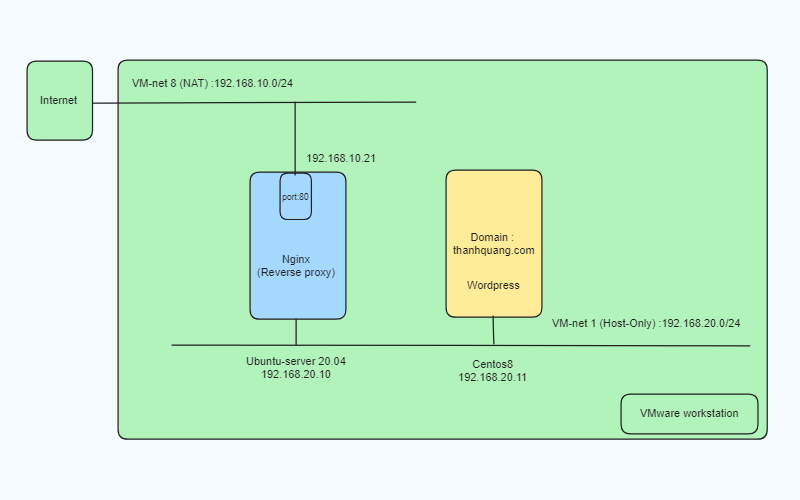
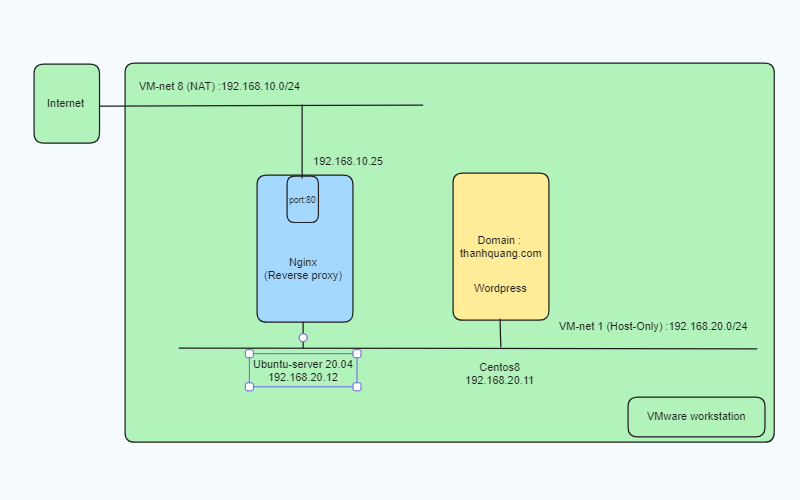
update

Changed region(s): [[0.0312, 0.12, 0.9688, 0.9]]

diff --git a/thuctap/03-Linux/03-thuchanh/03.proxy-ubuntu.md b/thuctap/03-Linux/03-thuchanh/03.proxy-ubuntu.md
@@ -1,5 +1,10 @@
+- [Hướng dẫn cấu hình reverse proxy trên ubuntu server 20.04](#hướng-dẫn-cấu-hình-reverse-proxy-trên-ubuntu-server-2004)
+  - [1. Chuẩn bị](#1-chuẩn-bị)
+  - [2. Thực hành](#2-thực-hành)
+    - [2.1 Cấu hình trên ubuntu server 20.04](#21-cấu-hình-trên-ubuntu-server-2004)
+    - [2.2 Cấu hình trên centos 8 làm webserver](#22-cấu-hình-trên-centos-8-làm-webserver)
 # Hướng dẫn cấu hình reverse proxy trên ubuntu server 20.04
-## Chuẩn bị 
+## 1. Chuẩn bị 
 ![Alt](/thuctap/anh/Screenshot_707.png)
 - Phân tích :
   - 1 máy cài ubuntu-server 20.04 làm proxy server và yêu cầu có 2 card mạng ,1 card mạng dùng NAT và 1 card mạng dùng host-only
@@ -8,5 +13,189 @@
   
 |Tên máy|Ubuntu-server|Centos 8|
 |-------|-------------|--------|
-|IP| ens33: 192.168.10.25  ens36:192.168.20.12 |ens33 : 192.168.20.11|
+|IP| ens33: 192.168.10.25 và ens36:192.168.20.12 |ens33 : 192.168.20.11|
 |Dùng làm|Proxy Server|Web Server cài Wordpress|
+
+## 2. Thực hành
+### 2.1 Cấu hình trên ubuntu server 20.04
+- Ở bài trước tôi đã hướng dẫn cấu hình và cài đặt nginx trên ubuntu server 20.04 rồi nếu bạn quên có thể xem lại [ở đây](https://docs.google.com/document/d/1orlFcqr-Bfihcq29Ahk8JK2arVV-VBtfWqtmtrvTv3k/edit#heading=h.u7tn12mh4jqg)
+- Ta thêm file cấu hình sử dụng chức năng reverse proxy vào thư mục `sites-available`
+  ```
+  vi /etc/nginx/sites-available/reverse-proxy
+  ```
+- Thêm vào nội dung sau:
+    ```
+    server {
+        listen 80;
+        server_name thanhquang.com www.thanhquang.com; #change to your domain name
+
+        location / {
+                proxy_set_header X-Real-IP $remote_addr;
+                proxy_set_header X-Forwarded-For $proxy_add_x_forwarded_for;
+                proxy_set_header Host $http_host;
+                proxy_pass http://192.168.20.11;  #change to your internal server IP
+                proxy_redirect off;
+        }
+    }
+    ```
+- Tạo symlink để file `reverse-proxy` có thể được thư mục `sites-enabled` sử dụng
+  ```
+  ln -s /etc/nginx/sites-available/reverse-proxy /etc/nginx/sites-enabled/reverse-proxy
+  ```
+- Tiến hành kiểm tra xem cấu các cấu hình của nginx đã đúng chưa
+  ```
+  nginx -t
+  ```
+- Nếu đúng kết quả sẽ trả về như sau:
+  ```
+    root@thanhquang:/etc/nginx# nginx -t
+    nginx: the configuration file /etc/nginx/nginx.conf syntax is ok
+    nginx: configuration file /etc/nginx/nginx.conf test is successful
+  ```
+- Tiến hành restart lại nginx
+  ```
+  systemctl restart nginx
+  ```
+- Tiến hành mở port cho nginx trên firewall
+  ```
+  ufw allow 80/tcp
+  ufw allow 443/tcp
+  ```
+- Do tôi làm bằng các máy ảo trên VMware workstation và dùng IP Static nên cần phải chỉnh sủa lại file host coi như là mô phỏng lại DNS server nhở vậy
+    - Ta tiến hành mở notepad hoặc notepad++ và mở file `hosts` theo đường dẫn `C:\Windows\System32\drivers\etc\hosts`
+    - Thêm vào file các dòng sau
+    ```
+    192.168.10.25 thanhquang.com
+    192.168.10.25 www.thanhquang.com
+    ```
+    - Lưu lại
+
+ ### 2.2 Cấu hình trên centos 8 làm webserver
+ - Ta cài LAMP trên Centos 8 . Tham khảo [ở đây](https://github.com/thanhquang99/thuctap2023/blob/main/thuctap/03-Linux/02-linux-profession/03.LAMP.md)
+- Tạo cơ sở dữ liệu cho tài khoản Wordpress
+  - Đăng nhập vào tài khoản root của cơ sở dữ liệu:
+  ```
+  mysql -u root -p
+  ```
+  Bạn cần nhập Password mà bạn đã thiết lạp cài đặt khi cài đặt Mariadb. Khi nhập xong sẽ chuyển sang màn hình Mariadb .
+  - Tiếp theo thiết lập bạn sẽ tạo cơ sở dữ liệu cho wordpress. Có thể dùng tên bất kỳ cho tên của Database. Trong bài mình đặt là wordpress.
+  ```
+  CREATE DATABASE wordpress;
+  ```
+  - Bạn cần tạo một tài khoản riêng để quản lý cơ sở dữ liệu cho Wordpress. Trong bài sẽ đặt
+    - user: thanhquang
+    - password: Khuongquang99
+  ```
+  CREATE USER thanhquang@localhost IDENTIFIED BY 'Khuongquang99';
+  ```
+  - Tiến hành cấp quyền quản lý CSDL Wordpress cho user mới tạo:
+  ```
+  GRANT ALL PRIVILEGES ON wordpress.* TO thanhquang@localhost IDENTIFIED BY 'Khuongquang99';
+  ```
+  - Xác thực lại những thay đổi về quyền:
+  ```
+  FLUSH PRIVILEGES;
+  ```
+  - Thoát
+  ```
+  exit
+  ```
+
+
+    `Lưu ý`: không nên có ký tự `@` trong passwd
+
+    ![Alt](/thuctap/anh/Screenshot_539.png)
+- Di chuyển đến thư mục home
+  ```
+  cd ~
+  ```
+- Tải xuống wordpress
+  ```
+  wget https://vi.wordpress.org/wordpress-6.2.3-vi.tar.gz
+  ```
+- Giải nén 
+  ```
+  tar xvfz wordpress-6.2.3-vi.tar.gz
+  ```
+- Tạo thư mục để wordpress hoạt động
+  ```
+  mkdir -p /var/www/thanhquang.com/html
+  ```
+- Copy các file trong thư mục trong WordPress tới đường dẫn `/var/www/thanhquang.com/html`
+  ```
+  sudo cp -R wordpress /var/www/thanhquang.com/html
+  ```
+- Di chuyển đến thư mực `/var/www/thanhquang.com/html/wordpress`
+  ```
+  cd /var/www/thanhquang.com/html/wordpress
+  ```
+- file cấu hình của wordpress là wp-config.php .Nhưng do chỉ có file wp-config-sample.php ta tiến hành copy ra file mới
+  ```
+  cp wp-config-sample.php wp-config.php
+  ```
+- Chỉnh sửa file cấu hình theo user và passwd ta đã tạo ở MySQL trước đó. Tìm nội dung sau đây để chỉnh sửa
+  ```
+  vi wp-config.php
+  ```
+  ```
+    /** Tên database cho WordPress */
+    define( 'DB_NAME', 'wordpress' );
+
+    /** MySQL database tên Usern */
+    define( 'DB_USER', 'thanhquang' );
+
+    /** MySQL database password cho user */
+    define( 'DB_PASSWORD', 'Khuongquang99' );
+
+    /** MySQL hostname */
+    define( 'DB_HOST', 'localhost' );
+
+    /** Database Charset to use in creating database tables. */
+    define( 'DB_CHARSET', 'utf8' );
+  ```
+
+- Phân quyền
+  ```
+  chmod -R 755 /var/www/*
+  chown -R apache:apache /var/www/*
+  ```
+- Tiến hành tạo 2 thư mục sites-available và sites-enabled trong file cấu hình của httpd
+  ```
+  mkdir /etc/httpd/sites-available /etc/httpd/sites-enabled
+  ```
+- Tiếp theo bạn khai báo quyền thực thi cho các thư viện ở `sites-enabled` bằng cách thay đổi cấu hình của file `httpd.conf`
+    ```
+    sudo vi /etc/httpd/conf/httpd.conf
+    ```
+    - Thêm dòng sau vào cuối:
+    ```
+    IncludeOptional sites-enabled/*.conf
+    ```
+    - Lưu và thoát
+
+- Bắt đầu bằng cách tạo hai tệp mới trong thư mục `sites-available`
+
+    ```
+    sudo vi /etc/httpd/sites-available/thanhquang.com.conf
+    ```
+    - Thêm vào cấu hình sau:
+    ```
+    <VirtualHost *:80>
+    ServerName www.thanhquang.com thanhquang.com
+    DocumentRoot /var/www/thanhquang.com/html
+    </VirtualHost>
+    ```
+- Tạo symlink để liên kết file ở `sites-available` và `sites-enabled`
+  ```
+   sudo ln -s /etc/httpd/sites-available/thanhquang.com.conf /etc/httpd/sites-enabled/thanhquang.com.conf
+  ``` 
+- Bây giờ ta tiến hành bật firewall 
+  ```
+  firewall-cmd --permanent --zone=public --add-service=http
+  firewall-cmd --permanent --zone=public --add-service=https
+  firewall-cmd --reload
+  ```
+- Restart lại dịch vụ httpd
+  ```
+  systemctl restart httpd
+  ```
